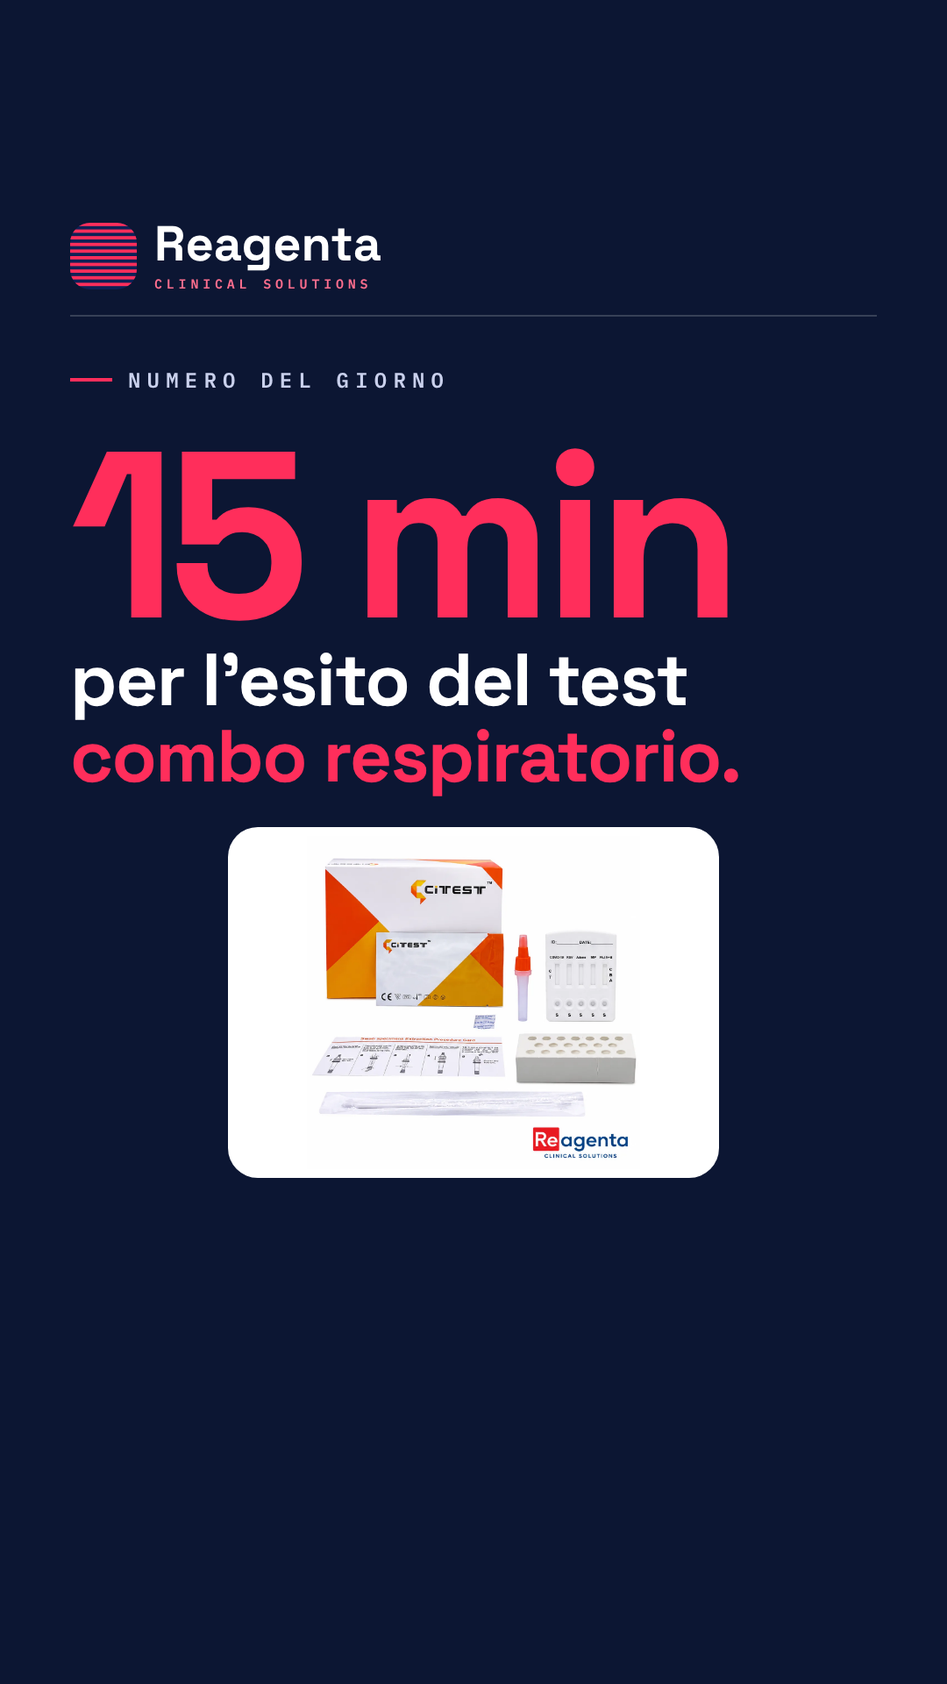
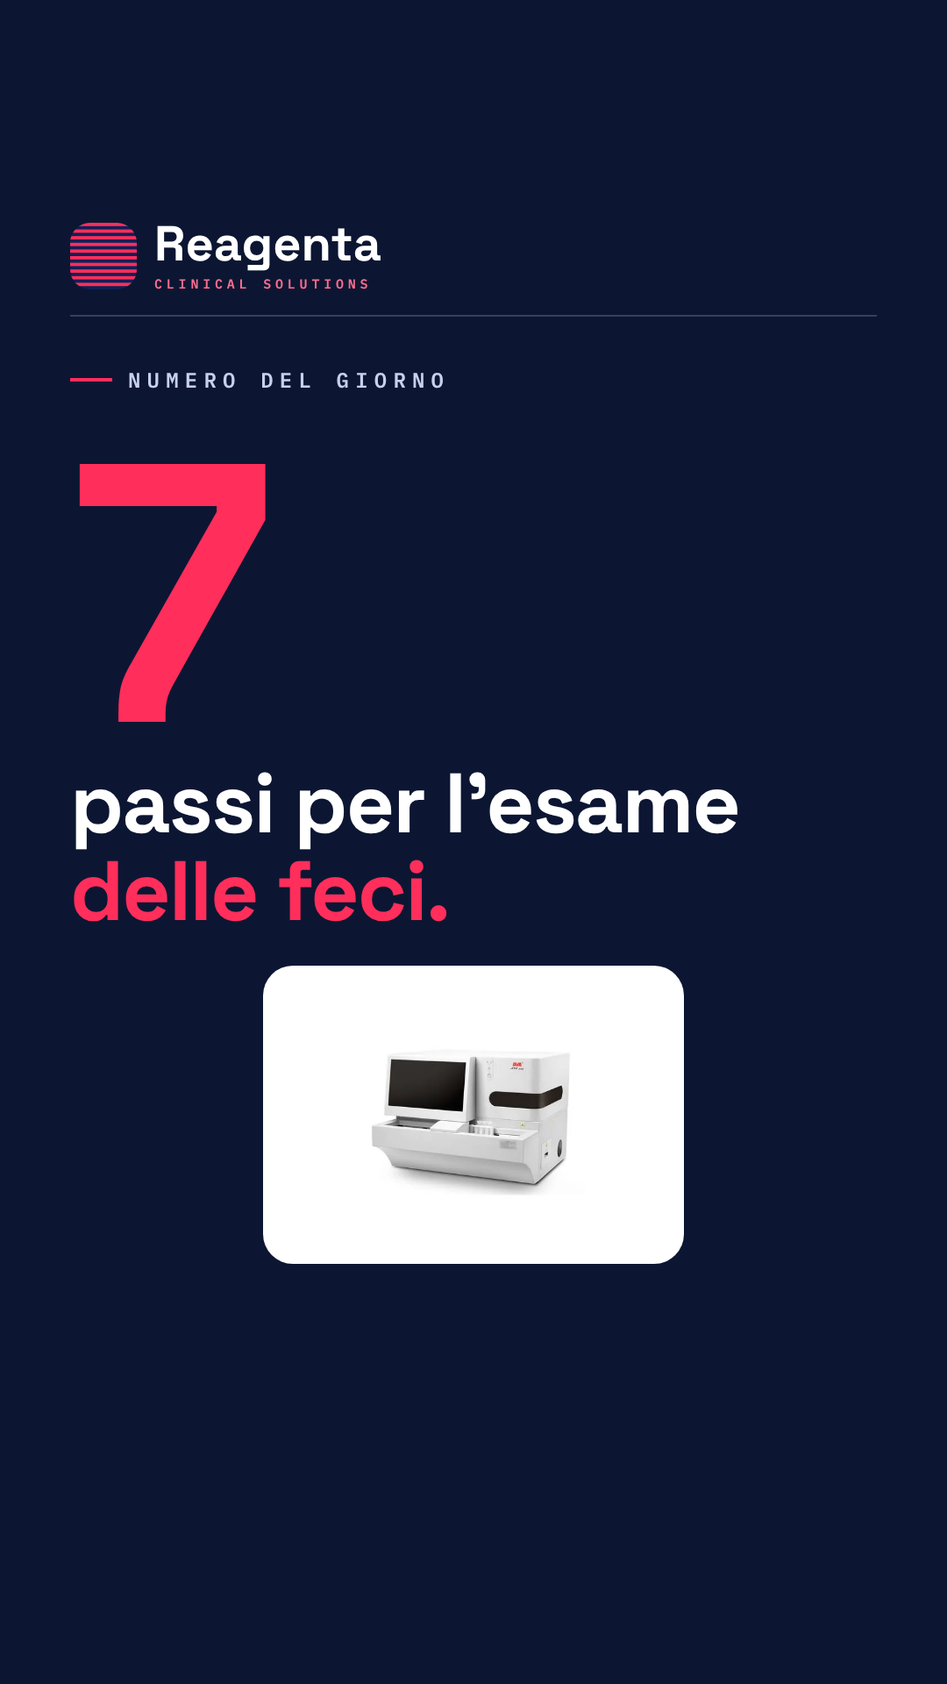
Settimana 9-13 novembre: nuova linea editoriale tecnica (10 feed e 15 stories)
Claude-Session: https://claude.ai/code/session_0152nv26HiLFYhBMLnh8aMY2

Changed region(s): [[0.0611, 0.25, 0.7944, 0.75]]

diff --git a/tools/gen_2026-11-09_week_v2.py b/tools/gen_2026-11-09_week_v2.py
@@ -1,0 +1,173 @@
+import pathlib, html, sys
+from playwright.sync_api import sync_playwright
+F="file:///home/claude/social-build/node_modules/@fontsource"
+P="file:///home/claude/social-build/prod"
+OUT=pathlib.Path("/home/claude/reagenta-social/img/2026-11-09"); OUT.mkdir(parents=True,exist_ok=True)
+TMP=pathlib.Path("/home/claude/social-build/out"); 
+TH={
+ 'white':dict(bg='#fff',fg='#4A5478',h='#0C1633',em='#FF2E5B',eye='#4A5478',wm='#0C1633',sub='#FF2E5B',line='#EEF0F8',cnt='#7079A0',card='#F4F6FC',cardfg='#0C1633'),
+ 'soft':dict(bg='#F4F6FC',fg='#4A5478',h='#0C1633',em='#FF2E5B',eye='#4A5478',wm='#0C1633',sub='#FF2E5B',line='#E1E5F3',cnt='#7079A0',card='#fff',cardfg='#0C1633'),
+ 'navy':dict(bg='#0C1633',fg='#C9D0EC',h='#fff',em='#FF2E5B',eye='#C9D0EC',wm='#fff',sub='#FF6E8E',line='rgba(255,255,255,.18)',cnt='#C9D0EC',card='#fff',cardfg='#0C1633'),
+ 'mag':dict(bg='#FF2E5B',fg='#0C1633',h='#fff',em='#0C1633',eye='#0C1633',wm='#0C1633',sub='#0C1633',line='rgba(12,22,51,.25)',cnt='#0C1633',card='#fff',cardfg='#0C1633'),
+}
+CSS=f"""
+@font-face{{font-family:'SG';font-weight:700;src:url('{F}/space-grotesk/files/space-grotesk-latin-700-normal.woff2')}}
+@font-face{{font-family:'PS';font-weight:400;src:url('{F}/ibm-plex-sans/files/ibm-plex-sans-latin-400-normal.woff2')}}
+@font-face{{font-family:'PS';font-weight:600;src:url('{F}/ibm-plex-sans/files/ibm-plex-sans-latin-600-normal.woff2')}}
+@font-face{{font-family:'PM';font-weight:600;src:url('{F}/ibm-plex-mono/files/ibm-plex-mono-latin-600-normal.woff2')}}
+*{{box-sizing:border-box;margin:0}}
+body{{background:var(--bg);font-family:'PS';color:var(--fg);position:relative;overflow:hidden}}
+.wrap{{position:absolute;left:80px;right:80px;display:flex;flex-direction:column}}
+.head{{display:flex;align-items:center;gap:20px;padding-bottom:26px;border-bottom:2px solid var(--line)}}
+.mark{{width:76px;height:76px}}
+.wm{{font-family:'SG';font-weight:700;font-size:56px;color:var(--wm);line-height:1}}
+.sub{{font-family:'PM';font-weight:600;font-size:15px;letter-spacing:.32em;color:var(--sub);margin-top:8px}}
+.cnt{{margin-left:auto;font-family:'PM';font-weight:600;font-size:24px;letter-spacing:.2em;color:var(--cnt)}}
+.eye{{display:flex;align-items:center;gap:18px;margin-top:56px;font-family:'PM';font-weight:600;font-size:24px;letter-spacing:.3em;color:var(--eye);text-transform:uppercase}}
+.eye i{{display:block;width:48px;height:4px;background:var(--em)}}
+h1{{font-family:'SG';font-weight:700;letter-spacing:-.02em;color:var(--h);margin-top:28px;line-height:1.04}}
+h1 em{{font-style:normal;color:var(--em)}}
+p{{font-size:38px;line-height:1.42;margin-top:28px}}
+.num{{font-family:'SG';font-weight:700;line-height:.9;color:var(--em);letter-spacing:-.04em}}
+.cardx{{background:var(--card);border-radius:34px;padding:44px 50px;color:var(--cardfg)}}
+.cardx small{{display:block;font-family:'PM';font-weight:600;font-size:20px;letter-spacing:.25em;color:#FF2E5B;margin-bottom:16px;text-transform:uppercase}}
+.cardx p{{margin-top:0;font-size:40px;font-weight:600;line-height:1.38;color:var(--cardfg)}}
+.ph{{background:#fff;border-radius:34px;display:flex;align-items:center;justify-content:center;overflow:hidden}}
+.ph img{{max-width:100%;max-height:100%;object-fit:contain}}
+.nav{{border-radius:34px;background:#0C1633;position:relative;overflow:hidden;padding:44px 56px;color:#C9D0EC}}
+.nav:after{{content:'';position:absolute;right:0;top:0;bottom:0;width:70px;background:repeating-linear-gradient(to bottom,rgba(255,46,91,.28) 0 3px,transparent 3px 8px)}}
+.nav p{{margin-top:0;color:#fff;font-weight:600;font-size:40px;line-height:1.38;padding-right:50px}}
+.nav small{{display:block;font-family:'PM';font-weight:600;font-size:20px;letter-spacing:.3em;color:#FF6E8E;margin-bottom:14px;text-transform:uppercase}}
+.pill{{align-self:flex-start;background:#0C1633;color:#fff;font-family:'PM';font-weight:600;font-size:26px;letter-spacing:.26em;padding:30px 46px;border-radius:100px;text-transform:uppercase}}
+.pill.w{{background:#fff;color:#0C1633}} .pill.m{{background:#FF2E5B;color:#fff}}
+.row{{display:flex;gap:28px}}
+.lab{{font-family:'PM';font-weight:600;font-size:22px;letter-spacing:.28em;text-transform:uppercase;color:var(--eye)}}
+"""
+def mark():
+    s=''.join(f'<rect y="{i*10}" width="100" height="5" fill="#FF2E5B"/>' for i in range(10))
+    return f'<svg class="mark" viewBox="0 0 100 100"><defs><clipPath id="c"><rect width="100" height="100" rx="30"/></clipPath></defs><g clip-path="url(#c)"><rect width="100" height="100" fill="#0E2156"/>{s}</g></svg>'
+def head(cnt=""):
+    return f'<div class="head">{mark()}<div><div class="wm">Reagenta</div><div class="sub">CLINICAL SOLUTIONS</div></div><div class="cnt">{cnt}</div></div>'
+def eye(t): return f'<div class="eye"><i></i>{t}</div>'
+def img(n,w=None,h=None,bg='#fff',extra=''):
+    return f'<div class="ph" style="width:{w}px;height:{h}px;background:{bg};{extra}"><img src="{P}/{n}.png" style="padding:16px"></div>'
+ARROW='<svg width="34" height="26" viewBox="0 0 34 26" style="margin-left:14px;vertical-align:-3px"><path d="M2 13h28M20 3l10 10-10 10" fill="none" stroke="#FF2E5B" stroke-width="4" stroke-linecap="round" stroke-linejoin="round"/></svg>'
+def scorri(cls=''): return f'<div class="pill {cls}" style="margin-top:auto">SCORRI{ARROW}</div>'
+POST=(1080,1350,72,72); STORY=(1080,1920,250,250)
+items={}  # name -> (size, theme, inner, rawpage or None)
+def add(name,size,theme,inner): items[name]=(size,theme,inner)
+
+
+def ph(n,w,h,bg='#fff',pad=10):
+    return f'<div class="ph" style="width:{w}px;height:{h}px;background:{bg}"><img src="{P}/{n}.png" style="padding:{pad}px"></div>'
+def chip(t,sub,bg='#fff',fg='#0C1633'):
+    return f'<div style="flex:1;background:{bg};border-radius:28px;padding:26px 22px;text-align:center"><div style="font-family:SG;font-weight:700;font-size:64px;line-height:1;color:#FF2E5B;letter-spacing:-.03em">{t}</div><div style="font-family:PM;font-weight:600;font-size:17px;letter-spacing:.14em;text-transform:uppercase;color:{fg};margin-top:12px;line-height:1.35">{sub}</div></div>'
+def pillrow(items,bg='#fff',fg='#0C1633'):
+    return ''.join(f'<div style="background:{bg};color:{fg};border-radius:100px;padding:20px 30px;font-family:PM;font-weight:600;font-size:25px;letter-spacing:.1em;text-transform:uppercase">{i}</div>' for i in items)
+
+
+def tl(a,b):
+    return f'<div style="display:flex;align-items:center;gap:30px;background:rgba(255,255,255,.07);border-radius:30px;padding:26px 36px"><div style="font-family:SG;font-weight:700;font-size:84px;color:#FF2E5B;line-height:1;width:110px">{a}</div><div style="font-family:SG;font-weight:700;font-size:52px;color:#fff;line-height:1.1">{b}</div></div>'
+def dots(i,n,on='#FF2E5B',off='#C9D0EC'):
+    return '<div style="display:flex;gap:10px;margin-top:28px">'+''.join(f'<span style="width:{70 if j==i else 26}px;height:14px;border-radius:8px;background:{on if j<=i else off}"></span>' for j in range(1,n+1))+'</div>'
+def step(name,i,N,theme,lab,num,title,body,tsz=118,nsz=300,dk=False):
+    add(f'{name}-{i}',POST,theme,head(f"{i}/{N}")+eye(lab)+f'<div class="num" style="font-size:{nsz}px;margin-top:26px">{num}</div><h1 style="font-size:{tsz}px;margin-top:0">{title}</h1><div class="cardx" style="margin-top:auto"><p style="font-size:36px">{body}</p></div>'+dots(i-1,N-1))
+
+# ============ FEED ============
+# F1 Lun10 carosello preanalitica 5 punti (navy)
+n='feed-lun-10-preanalitica'
+add(f'{n}-1',POST,'navy',head("1/6")+eye("Il caso del bancone")+'<h1 style="font-size:150px;margin-top:50px">Il campione può peggiorare. <em>Dove?</em></h1><p style="font-size:42px">5 punti della preanalitica da tenere d\'occhio.</p>'+scorri('m'))
+pa=[("01","Identificazione","Un errore di etichetta non si corregge in laboratorio."),("02","Prelievo","Stasi prolungata e tecnica di prelievo possono alterare il campione."),("03","Conservazione","Tempi e temperature: quelli del produttore e del tuo laboratorio."),("04","Centrifugazione","Tempi e giri secondo le istruzioni della provetta."),]
+for i,(a,b,c) in enumerate(pa,2):
+    add(f'{n}-{i}',POST,'navy',head(f"{i}/6")+eye("Punto "+a)+f'<div class="num" style="font-size:300px;margin-top:26px">{a}</div><h1 style="font-size:122px;margin-top:0">{b}</h1><div class="cardx" style="margin-top:auto"><p style="font-size:36px">{c}</p></div>')
+add(f'{n}-6',POST,'navy',head("6/6")+eye("Punto 05")+'<div class="num" style="font-size:300px;margin-top:26px">05</div><h1 style="font-size:118px;margin-top:0">Controllo visivo</h1><p style="font-size:38px">Emolisi, lipemia, ittero: guarda il campione prima di analizzarlo.</p><div class="pill m" style="margin-top:auto">QUAL È IL TUO PUNTO CRITICO?</div>')
+# F2 Lun18 domanda (magenta)
+add('feed-lun-18-centrifuga',POST,'mag',head()+eye("Domanda di mestiere")+'<h1 style="font-size:132px;margin-top:50px">Dopo il prelievo, quanto aspetti prima di <em>centrifugare?</em></h1><div style="display:flex;flex-wrap:wrap;gap:16px;margin-top:40px">'+pillrow(["Subito","Entro un\'ora","Dipende dall'analita","Dipende dal turno"],'#fff')+'</div><div class="pill" style="margin-top:auto">RISPONDI NEI COMMENTI</div>')
+# F3 Mar10 mito/fatto FOB vs calprotectina (half)
+add('feed-mar-10-fob-calpro','half','half','')
+# F4 Mar18 carosello AVE-562 in 7 passi (bianco)
+n='feed-mar-18-ave562'
+add(f'{n}-1',POST,'white',head("1/5")+eye("Parassitologia e feci")+'<h1 style="font-size:136px">L\'esame delle feci in <em>7 passi.</em></h1><div style="display:flex;justify-content:center;margin-top:30px">'+ph('ave562',520,400,'#F4F6FC')+'</div>'+scorri())
+av=[("01–03","Prepara","Fino a 40 campioni a bordo, barcode, diluizione, omogeneizzazione e filtrazione automatiche."),("04–05","Osserva","Microscopia digitale ed elaborazione iA: riconoscimento e conteggio di eritrociti, leucociti, strutture parassitarie, lieviti. L'operatore rivede le immagini."),("06","Misura","Test immunochimici compatibili: sangue occulto, calprotectina, transferrina, antigeni gastrointestinali, secondo configurazione.")]
+for i,(a,b,c) in enumerate(av,2):
+    add(f'{n}-{i}',POST,'white',head(f"{i}/5")+eye("Passi "+a)+f'<div class="num" style="font-size:230px;margin-top:30px;white-space:nowrap">{a}</div><h1 style="font-size:128px;margin-top:0">{b}</h1><div class="cardx" style="margin-top:auto;background:#F4F6FC"><p style="font-size:34px">{c}</p></div>')
+add(f'{n}-5',POST,'white',head("5/5")+eye("Passo 07")+'<div class="num" style="font-size:230px;margin-top:30px">07</div><h1 style="font-size:110px;margin-top:0">Validazione e <em>refertazione.</em></h1><p style="font-size:36px">Risultati integrati, immagini archiviate, trasmissione al LIS. AVE-562: 90 campioni/ora.</p><div class="nav" style="margin-top:auto"><small>Vuoi vederlo dal vivo?</small><p>Scrivici in DM<br>081 8045042 · reagenta.it</p></div>')
+# F5 Mer10 carosello IVDR (soft)
+n='feed-mer-10-ivdr'
+add(f'{n}-1',POST,'soft',head("1/5")+eye("Qualità e norme")+'<h1 style="font-size:132px;margin-top:40px">IVDR: cosa cambia per chi <em>compra</em> diagnostici?</h1><p style="font-size:40px">Le scadenze, in parole semplici.</p>'+scorri())
+iv=[("Regolamento (UE) 2017/746","Più dispositivi passano da un <b>organismo notificato</b>. Sostituisce la vecchia direttiva IVD.",96),("31/12/2027 · 2028 · 2029","Dispositivi «legacy» sul mercato fino al <b>31/12/2027</b> (classe D), <b>31/12/2028</b> (C), <b>31/12/2029</b> (B e A sterile).",84),("A condizioni precise","Sistema qualità IVDR, domanda a un organismo notificato e accordo scritto, entro le date previste per ogni classe.",96)]
+for i,(a,b,s) in enumerate(iv,2):
+    add(f'{n}-{i}',POST,'soft',head(f"{i}/5")+eye("IVDR")+f'<h1 style="font-size:{s}px;margin-top:40px">{a}</h1><div class="nav" style="margin-top:auto"><small>In sintesi</small><p style="font-size:36px">{b}</p></div>')
+add(f'{n}-5',POST,'soft',head("5/5")+eye("Cosa fare")+'<h1 style="font-size:104px;margin-top:40px">Chiedi al fornitore <em>marcatura e documenti.</em></h1><p style="font-size:30px">Sintesi da Reg. (UE) 2024/1860, in vigore dal 9/7/2024. Sono indicazioni generali: vale il testo ufficiale.</p><div class="cardx" style="margin-top:auto;background:#fff"><p>Documentazione tecnica: richiedila a reagenta.it o allo 081 8045042.</p></div>')
+# F6 Mer18 ELISA colore / CLIA luce (split verticale navy | magenta)
+add('feed-mer-18-colore-luce','split','split','')
+# F7 Gio10 carosello HIL (navy)
+n='feed-gio-10-siero'
+add(f'{n}-1',POST,'navy',head("1/5")+eye("Il caso del bancone")+'<h1 style="font-size:132px;margin-top:40px">Il campione ti parla: <em>emolisi, lipemia, ittero.</em></h1><p style="font-size:40px">Cosa significano, in 3 colori.</p>'+scorri('m'))
+hl=[("Rosso","Emolisi","Rottura dei globuli rossi: rilascia componenti intracellulari (es. potassio, LDH, AST) e può alterare i valori."),("Lattescente","Lipemia","Siero torbido: può interferire con i metodi ottici e fotometrici."),("Giallo intenso","Ittero","Bilirubina elevata: il colore giallo-arancio può interferire con alcuni metodi.")]
+for i,(c,b,t) in enumerate(hl,2):
+    add(f'{n}-{i}',POST,'navy',head(f"{i}/5")+eye(c)+f'<h1 style="font-size:150px;margin-top:40px">{b}</h1><div class="cardx" style="margin-top:auto"><small>Cosa succede</small><p style="font-size:36px">{t}</p></div>'+dots(i-1,4))
+add(f'{n}-5',POST,'navy',head("5/5")+eye("Cosa fare")+'<h1 style="font-size:110px;margin-top:40px">Guarda il campione, <em>poi analizza.</em></h1><div class="nav" style="margin-top:36px"><p>Segui la procedura del tuo laboratorio: indici HIL, commento al referto, nuovo prelievo se serve.</p></div><div class="pill m" style="margin-top:auto">SALVA E CONDIVIDI</div>')
+# F8 Gio18 carosello test rapido o laboratorio (soft)
+n='feed-gio-18-rapido-lab'
+add(f'{n}-1',POST,'soft',head("1/5")+eye("Appropriatezza")+'<h1 style="font-size:132px;margin-top:40px">Test rapido o laboratorio? <em>Non è una gara.</em></h1>'+scorri())
+rl=[("Rapido","Il test rapido risponde in pochi minuti: utile al punto di cura, vicino al paziente."),("Laboratorio","Il laboratorio dà risultati quantitativi, controlli di qualità e tracciabilità su volumi maggiori."),("Attenzione","Un risultato negativo non sempre basta: può servire una conferma, secondo il quadro clinico.")]
+for i,(a,b) in enumerate(rl,2):
+    add(f'{n}-{i}',POST,'soft',head(f"{i}/5")+eye("Da sapere")+f'<h1 style="font-size:136px;margin-top:40px">{a}</h1><div class="nav" style="margin-top:auto"><small>In sintesi</small><p style="font-size:38px">{b}</p></div>'+dots(i-1,4))
+add(f'{n}-5',POST,'soft',head("5/5")+eye("In breve")+'<h1 style="font-size:112px;margin-top:40px">Strumenti <em>complementari.</em></h1><p style="font-size:38px">Test rapidi e analisi di laboratorio rispondono a bisogni diversi. L\'interpretazione spetta al medico.</p><div class="cardx" style="margin-top:auto;background:#fff"><p>Quale usi di più, e per cosa? Raccontacelo nei commenti.</p></div>')
+# F9 Ven10 checklist manutenzione (bianco)
+def ck(i,t): return f'<div style="display:flex;align-items:center;gap:26px;border-bottom:2px solid #EEF0F8;padding:22px 0"><div style="font-family:SG;font-weight:700;font-size:64px;color:#FF2E5B;width:90px">{i}</div><div style="font-family:SG;font-weight:700;font-size:44px;color:#0C1633;line-height:1.1">{t}</div></div>'
+add('feed-ven-10-manutenzione',POST,'white',head()+eye("Checklist del tecnico")+'<h1 style="font-size:104px;margin-top:24px">Manutenzione preventiva: <em>5 controlli.</em></h1><div style="margin-top:20px">'+ck("01","Pulizia e decontaminazione")+ck("02","Controllo di qualità interno")+ck("03","Verifiche secondo il produttore")+ck("04","Registro degli interventi")+ck("05","Scorte e scadenze dei consumabili")+'</div><p style="font-size:28px;margin-top:20px">Indicazioni generali: valgono le istruzioni del produttore.</p>')
+# F10 Ven18 domanda (magenta)
+add('feed-ven-18-automatizzare',POST,'mag',head()+eye("Domanda del venerdì")+'<h1 style="font-size:100px;margin-top:50px">Qual è la prima cosa che <em>automatizzeresti?</em></h1><div style="display:flex;flex-wrap:wrap;gap:16px;margin-top:40px">'+pillrow(["Preanalitica","Parassitologia","Refertazione","Magazzino"],'#fff')+'</div><div class="pill" style="margin-top:auto">SCRIVICI IN DM</div>')
+
+# ============ STORIES ============
+def S(name,theme,inner): add(name,STORY,theme,inner)
+def big(t,sz=140,mt=60): return f'<h1 style="font-size:{sz}px;margin-top:{mt}px">{t}</h1>'
+S('story-lun-0850','white',head()+eye("Domanda del giorno")+big('Il campione può peggiorare. <em>Dove?</em>',140,70)+'<p style="font-size:48px">Alle 10:00 i 5 punti da tenere d\'occhio.</p><div class="pill m" style="margin-top:auto">DETTAGLI NEL POST</div>')
+S('story-lun-1310','navy',head()+eye("Lo sapevi?")+big('L\'emolisi rilascia <em>potassio, LDH e AST</em> dalle cellule.',112,60)+'<p style="font-size:44px">Per questo un campione emolizzato può alterare i valori.</p><div class="pill m" style="margin-top:auto">SALVA PER DOPO</div>')
+S('story-lun-1730','soft',head()+eye("Alle 18:00")+big('Quanto aspetti prima di <em>centrifugare?</em>',130,70)+'<p style="font-size:48px">Una domanda per i tecnici. Rispondi nel post.</p><div class="pill m" style="margin-top:auto">DETTAGLI NEL POST</div>')
+S('story-mar-0850','mag',head()+eye("Mito o fatto?")+big('FOB e calprotectina misurano <em>la stessa cosa?</em>',120,70)+'<p style="font-size:48px;font-weight:600">Il fatto, alle 10:00.</p><div class="pill" style="margin-top:auto">DETTAGLI NEL POST</div>')
+S('story-mar-1310','navy',head()+eye("Numero del giorno")+'<div class="num" style="font-size:420px;margin-top:40px">7</div><h1 style="font-size:96px;margin-top:0">passi per l\'esame <em>delle feci.</em></h1><div style="margin-top:34px;display:flex;justify-content:center">'+ph('ave562',480,340,'#fff')+'</div>')
+S('story-mar-1730','soft',head()+eye("Alle 18:00")+big('Parassitologia con <em>elaborazione iA.</em>',130,70)+'<p style="font-size:48px">Un carosello da scorrere.</p><div class="pill m" style="margin-top:auto">SCORRI IL CAROSELLO</div>')
+S('story-mer-0850','white',head()+eye("Qualità e norme")+big('IVDR: lo sai cosa cambia per chi <em>compra?</em>',120,70)+'<p style="font-size:48px">Alle 10:00 le scadenze in parole semplici.</p><div class="pill m" style="margin-top:auto">DETTAGLI NEL POST</div>')
+S('story-mer-1310','navy',head()+eye("Numero del giorno")+'<div class="num" style="font-size:230px;margin-top:60px;white-space:nowrap">31/12/27</div><h1 style="font-size:92px;margin-top:10px">Classe D: scadenza della transizione <em>IVDR.</em></h1><p style="font-size:38px">Per i dispositivi legacy, a condizioni precise.</p>')
+S('story-mer-1730','mag',head()+eye("Alle 18:00")+big('ELISA: il segnale è colore. CLIA: <em>luce.</em>',112,70)+'<p style="font-size:48px;font-weight:600">Stesso principio, lettura diversa.</p><div class="pill" style="margin-top:auto">DETTAGLI NEL POST</div>')
+S('story-gio-0850','soft',head()+eye("Domanda del giorno")+big('Che colore ha <em>il tuo siero?</em>',150,70)+'<p style="font-size:48px">Rosso, lattescente, giallo intenso: alle 10:00 cosa significano.</p><div class="pill m" style="margin-top:auto">DETTAGLI NEL POST</div>')
+S('story-gio-1310','white',head()+eye("Consiglio rapido")+big('Test rapido o laboratorio? <em>Non è una gara.</em>',120,70)+'<p style="font-size:46px">Sono strumenti complementari: scegli in base al bisogno.</p><div class="pill m" style="margin-top:auto">SALVA PER DOPO</div>')
+S('story-gio-1730','navy',head()+eye("Alle 18:00")+big('Un negativo <em>basta sempre?</em>',150,70)+'<p style="font-size:48px">Il carosello su rapido e laboratorio.</p><div class="pill m" style="margin-top:auto">SCORRI IL CAROSELLO</div>')
+S('story-ven-0850','white',head()+eye("Checklist")+big('Manutenzione preventiva: <em>5 controlli.</em>',130,70)+'<p style="font-size:48px">Alle 10:00 la checklist del tecnico.</p><div class="pill m" style="margin-top:auto">DETTAGLI NEL POST</div>')
+S('story-ven-1310','mag',head()+eye("Servizio")+'<div class="num" style="font-size:230px;margin-top:50px;color:#fff;white-space:nowrap">24–48h</div><h1 style="font-size:92px;margin-top:10px">Assistenza tecnica: <em>intervento in 24–48 ore.</em></h1><p style="font-size:40px;font-weight:600">Hotline lun–ven 8:30–18:00 · 081 8045042</p>')
+S('story-ven-1730','soft',head()+eye("Buon weekend")+big('Qual è la prima cosa che <em>automatizzeresti?</em>',98,70)+'<p style="font-size:48px">Rispondi nel post delle 18:00.</p><div class="pill m" style="margin-top:auto">DETTAGLI NEL POST</div>')
+
+def page(size,theme,inner):
+    w,h,t,b=size
+    th=TH[theme]
+    v=';'.join(f'--{k}:{x}' for k,x in th.items())
+    return f'<!doctype html><html><head><meta charset="utf-8"><style>{CSS} body{{width:{w}px;height:{h}px;{v}}} .wrap{{top:{t}px;bottom:{b}px}}</style></head><body><div class="wrap">{inner}</div></body></html>'
+def page_half():
+    th=TH['navy']; v=';'.join(f'--{k}:{x}' for k,x in th.items())
+    top=f'''<div style="position:absolute;left:0;right:0;top:0;height:690px;background:#0C1633;{v}"><div class="wrap" style="top:60px;bottom:0">{head()}{eye("Mito")}<h1 style="font-size:92px;margin-top:30px">«FOB e calprotectina misurano <em>la stessa cosa.</em>»</h1></div></div>'''
+    w=TH['white']; v2=';'.join(f'--{k}:{x}' for k,x in w.items())
+    bot=f'''<div style="position:absolute;left:0;right:0;top:690px;bottom:0;background:#fff;{v2}"><div class="wrap" style="top:50px;bottom:60px">{eye("Fatto")}<h1 style="font-size:58px;margin-top:20px;line-height:1.1">Il FOB cerca <em>sangue occulto</em> nelle feci. La calprotectina è una proteina legata all'<em>infiammazione intestinale.</em></h1><p style="font-size:34px;margin-top:22px">Due domande diverse, due test diversi. L'interpretazione spetta al medico.</p></div></div>'''
+    sep='<div style="position:absolute;left:0;right:0;top:690px;height:8px;background:#FF2E5B"></div>'
+    return f'<!doctype html><html><head><meta charset="utf-8"><style>{CSS} body{{width:1080px;height:1350px;background:#fff}}</style></head><body>{top}{bot}{sep}</body></html>'
+def page_split():
+    n=TH['navy']; vn=';'.join(f'--{k}:{x}' for k,x in n.items())
+    m=TH['mag']; vm=';'.join(f'--{k}:{x}' for k,x in m.items())
+    left=f'<div style="position:absolute;left:0;top:0;bottom:0;width:540px;background:#0C1633;{vn}"><div style="position:absolute;left:60px;right:40px;top:72px;bottom:72px;display:flex;flex-direction:column"><div class="head" style="gap:14px"><div class="wm" style="font-size:44px">Reagenta</div></div>{eye("ELISA")}<div class="num" style="font-size:140px;margin-top:70px;color:#fff;letter-spacing:-.04em">Colore</div><p style="font-size:34px;color:#C9D0EC">La reazione enzimatica cambia colore: si misura l\'assorbanza.</p></div></div>'
+    right=f'<div style="position:absolute;right:0;top:0;bottom:0;width:540px;background:#FF2E5B;{vm}"><div style="position:absolute;left:60px;right:60px;top:72px;bottom:72px;display:flex;flex-direction:column"><div class="head" style="border:0;height:76px"></div>{eye("CLIA")}<div class="num" style="font-size:170px;margin-top:70px;color:#fff;letter-spacing:-.04em">Luce</div><p style="font-size:34px;color:#0C1633;font-weight:600">La reazione chemiluminescente emette luce: si misura il segnale luminoso.</p></div></div>'
+    foot='<div style="position:absolute;left:0;right:0;bottom:72px;text-align:center;font-family:PM;font-weight:600;font-size:22px;letter-spacing:.25em;color:#fff;z-index:5"><span style="background:#0C1633;padding:22px 34px;border-radius:100px">STESSO PRINCIPIO IMMUNOLOGICO</span></div>'
+    return f'<!doctype html><html><head><meta charset="utf-8"><style>{CSS} body{{width:1080px;height:1350px}}</style></head><body>{left}{right}{foot}</body></html>'
+only=sys.argv[1:]
+with sync_playwright() as p:
+    b=p.chromium.launch()
+    for name,(size,theme,inner) in items.items():
+        if only and not any(name.startswith(o) for o in only): continue
+        w,h=(1080,1350) if size in('half','split') else (size[0],size[1])
+        pg=b.new_page(viewport={"width":w,"height":h})
+        fn=TMP/f"{name}.html"; fn.write_text(page_half() if theme=='half' else page_split() if theme=='split' else page(size,theme,inner))
+        pg.goto("file://"+str(fn)); pg.wait_for_timeout(400)
+        pg.screenshot(path=str(OUT/f"{name}.png")); pg.close()
+    b.close()
+print(len(items))
